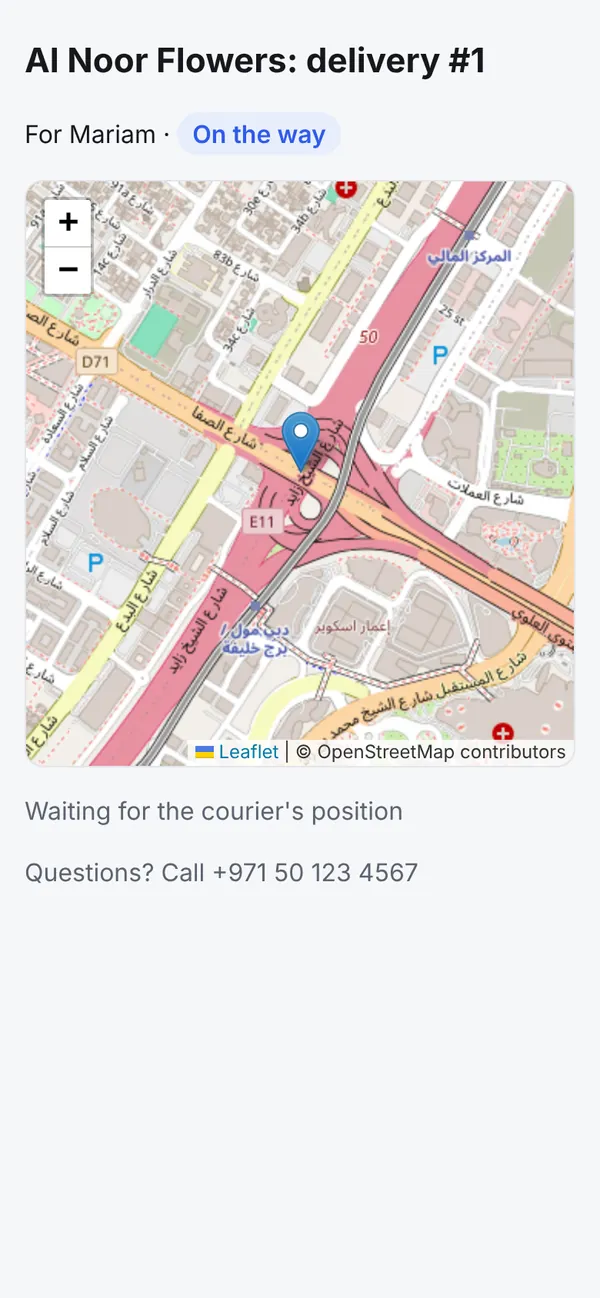
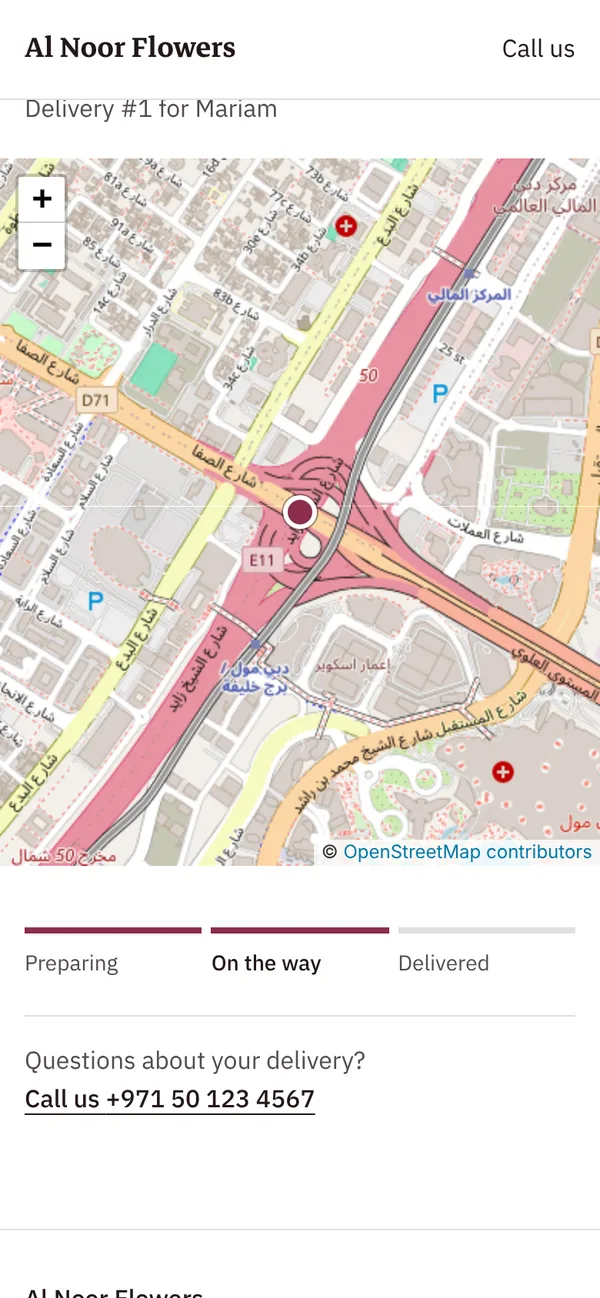
Site: demo screenshots retaken from the redesigned templates
Landing and gallery screenshots now show the new template designs with
their banner photos; the store and booking images get new names and
every alt text describes what is visible.

Claude-Session: https://claude.ai/code/session_016s5QLspfnvZXticLQwU6Mu

diff --git a/internal/web/static.go b/internal/web/static.go
@@ -67,14 +67,14 @@ func (s screen) Src() string { return staticURL(s.File) }
 func phone(file, alt string) screen { return screen{File: file, Alt: alt, W: 600, H: 1298} }
 
 var screens = map[string]screen{
-	"store-uae":         phone("screen-store-product.webp", "The Royal Oud product page of the Al Noor Perfumes demo shop: a photo of an amber perfume bottle, AED 250.00 including VAT, a 50 ml option, quantity, Add to cart and a Chat on WhatsApp button"),
+	"store-uae":         phone("screen-store-home.webp", "The home page of the Al Noor Perfumes demo shop: the shop name over a full-screen photo of desert dunes at dusk, with Oud, musk and amber from the UAE and Discover the collection"),
 	"store-ar":          phone("screen-store-home-ar.webp", "The Al Noor Perfumes demo shop in Arabic: the shop name, category filters and four perfumes with their photos and AED prices, laid out right to left"),
-	"booking-uae":       phone("screen-booking-slots.webp", "The Haircut and Blow-dry page of the Lamsa Beauty Lounge demo: a photo of a stylist blow-drying a client's hair, AED 150 including VAT, a choice of stylist, a date and a grid of the free times left that day"),
-	"home-service-uae":  phone("screen-home-service.webp", "The Home cleaning booking form of the Bayti Home Services demo: number of hours, materials, area, date, arrival windows with the morning ones already taken, repeat and the price with VAT"),
-	"reservation-uae":   phone("screen-reservation.webp", "The Evening Desert Safari with BBQ Dinner page of the Sahara Bay demo: a photo of sand dunes, what is included, adult and child prices, and the first departure with seats left"),
-	"quote-portal-uae":  phone("screen-quote-portal.webp", "The home page of the Bayan Business Setup demo: an Ask for a quote button and company formation packages from AED 12,900 and AED 14,500 with typical durations"),
-	"listings-uae":      phone("screen-listing.webp", "A four-bedroom villa in Arabian Ranches on the Marsa Homes demo: a photo of the villa and its pool, AED 6,900,000, property type, bedrooms, bathrooms, area and furnishing"),
-	"delivery-tracking": phone("screen-delivery.webp", "Delivery #1 of the Al Noor Flowers demo for Mariam, marked On the way, with the courier's position on a map of Dubai"),
+	"booking-uae":       phone("screen-booking.webp", "The home page of the Lamsa Beauty Lounge demo: Hair, nails and skincare in Jumeirah on a plum banner with a Book an appointment button and a photo of a calm spa bathroom"),
+	"home-service-uae":  phone("screen-home-service.webp", "The home page of the Bayti Home Services demo: Cleaning, AC and maintenance across Dubai, booked in a minute on a green banner with a Choose a service button and a photo of a tidy living room"),
+	"reservation-uae":   phone("screen-reservation.webp", "The home page of the Sahara Bay Tours and Rentals demo: Desert safaris, cruises, car hire and party rentals in Dubai on a brown banner with a See tours and rentals button and a photo of a camel caravan crossing the dunes"),
+	"quote-portal-uae":  phone("screen-quote-portal.webp", "The home page of the Bayan Business Setup demo: Company formation, visas and tax services in Dubai, with a clear quote before you pay, an Ask for a quote button and a photo of the Dubai skyline at night"),
+	"listings-uae":      phone("screen-listing.webp", "The home page of the Marsa Homes demo: the broker's name over a full-screen photo of Downtown Dubai and the Burj Khalifa, with Homes to buy and rent across Dubai and Search properties"),
+	"delivery-tracking": phone("screen-delivery.webp", "Delivery #1 of the Al Noor Flowers demo for Mariam: the courier's position on a map of Dubai and the progress Preparing, On the way, Delivered, with On the way reached"),
 	"admin-calendar": {File: "screen-admin-calendar.webp", W: 1400, H: 920,
 		Alt: "The owner's admin panel of the Lamsa Beauty Lounge demo: the bookings calendar for one day, one lane each for Layla, Maryam and Priya, with nine appointments from 10:00 to 19:00, each with the customer's name and service, marked confirmed or pending"},
 }

diff --git a/internal/web/gallery_test.go b/internal/web/gallery_test.go
@@ -34,7 +34,7 @@ func TestTemplateGallery(t *testing.T) {
 		}
 	}
 	// Grouped by what the owner does, each with a screenshot of its demo.
-	for _, want := range []string{"I sell products", "I take bookings", "I send quotes", "I deliver", "/static/img/screen-booking-slots.webp?v="} {
+	for _, want := range []string{"I sell products", "I take bookings", "I send quotes", "I deliver", "/static/img/screen-booking.webp?v="} {
 		if !strings.Contains(page, want) {
 			t.Errorf("gallery lacks %q", want)
 		}

diff --git a/internal/web/static/img/CREDITS.md b/internal/web/static/img/CREDITS.md
@@ -3,19 +3,18 @@
 All images on the public site pages are screenshots of Renoxium demo templates, taken from the
 demos the server provisions at startup (`demo-<example>` apps) with Chromium at a 390x844 phone
 viewport (device scale 2) and stored as WebP, 600 pixels wide. The demo banner is hidden in the
-screenshots and, where it covered the content, the floating WhatsApp button too. Everything shown
-is demo data: the product, service, tour and listing photos are the demos' own photos (sources and
-licences in `examples/demo-images/CREDITS.md`), and the bookings are the schedule every demo gets
-around the current day (`internal/platform/demodata.go`).
+screenshots. Everything shown is demo data: the banner, product and service photos are the demos'
+own photos (sources and licences in `examples/demo-images/CREDITS.md`), and the bookings are the
+schedule every demo gets around the current day (`internal/platform/demodata.go`).
 
 | File | Screenshot of |
 | --- | --- |
-| screen-store-product.webp | store-uae: the Royal Oud product page, with its product photo |
-| screen-store-home-ar.webp | store-uae: the shop's home page in Arabic, with the product photos |
-| screen-booking-slots.webp | booking-uae: the Haircut & Blow-dry page with its photo and the free times left around the demo bookings |
-| screen-home-service.webp | home-service-uae: the home cleaning booking form with arrival windows (scrolled to the form) |
-| screen-reservation.webp | reservation-uae: the desert safari page with its photo and departures |
-| screen-quote-portal.webp | quote-portal-uae: the home page with packages |
-| screen-listing.webp | listings-uae: the four-bedroom villa listing page with its photos |
-| screen-delivery.webp | delivery-tracking: a delivery on the live map. Map data © OpenStreetMap contributors (ODbL), tiles by openstreetmap.org, attribution visible in the image |
+| screen-store-home.webp | store-uae: the shop's home page with its banner photo (scrolled past the announcement bar) |
+| screen-store-home-ar.webp | store-uae: the shop's home page in Arabic, scrolled to the collection with the product photos |
+| screen-booking.webp | booking-uae: the home page with its banner and photo |
+| screen-home-service.webp | home-service-uae: the home page with its banner and photo |
+| screen-reservation.webp | reservation-uae: the home page with its banner and photo |
+| screen-quote-portal.webp | quote-portal-uae: the home page with its banner and photo |
+| screen-listing.webp | listings-uae: the home page with its banner photo (scrolled past the announcement bar) |
+| screen-delivery.webp | delivery-tracking: a delivery on the live map, with its progress. Map data © OpenStreetMap contributors (ODbL), tiles by openstreetmap.org, attribution visible in the image |
 | screen-admin-calendar.webp | booking-uae: the owner's admin panel, bookings calendar day view (1280x800 desktop, cropped to the calendar, 1400 pixels wide), showing the demo's own bookings for the day |
